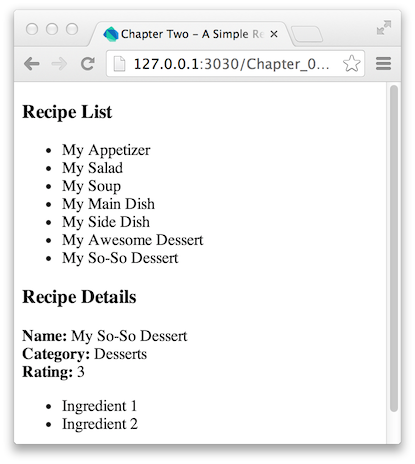
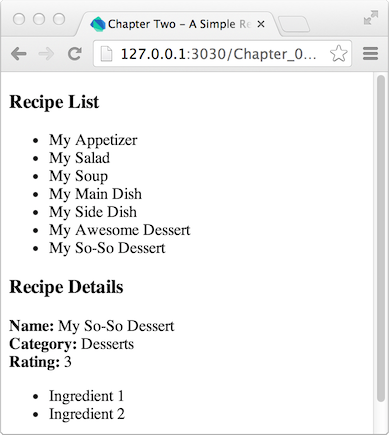
Images on ch02 of the tutorial updated not to include the drop shadow. Added in CSS instead.

Changed region(s): [[0.0, 0.0, 1.0, 1.0], [0.8946, 0.0598, 0.9254, 0.0897]]

diff --git a/app/css/base.css b/app/css/base.css
@@ -374,7 +374,7 @@
     content: '';
   }
 
-  /* ---- Tutorial Table of Contents ---- */
+  /* ---- Tutorial ---- */
   #tutorial-toc {
     font-size: 16px;
   }
@@ -400,6 +400,10 @@
 
   #tutorial-toc tr td, #tutorial-toc th {
     padding: 10px;
+  }
+
+  .tutorial img {
+    box-shadow: 0 2px 5px rgba(0,0,0,0.1);  
   }
 
   /* ---- Demo ---- */
